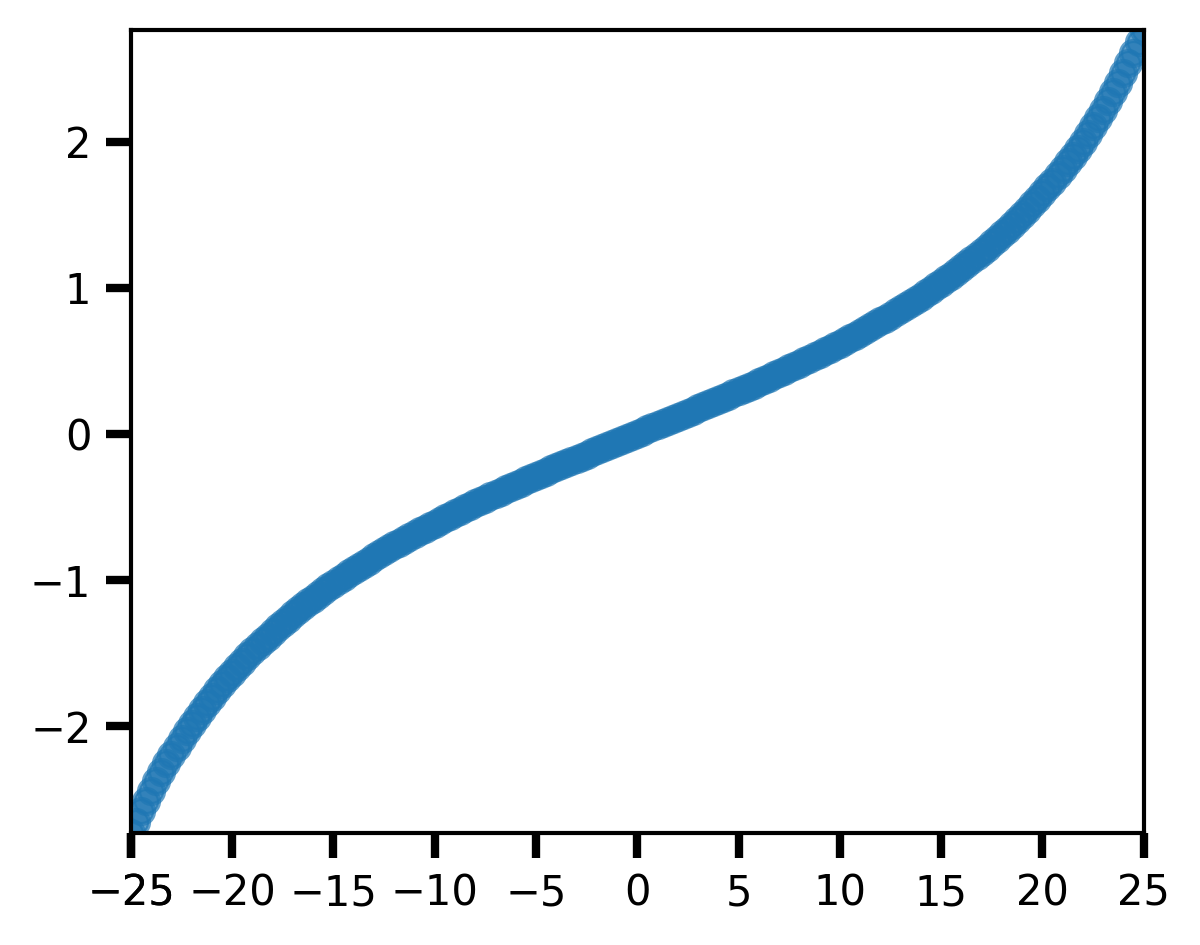
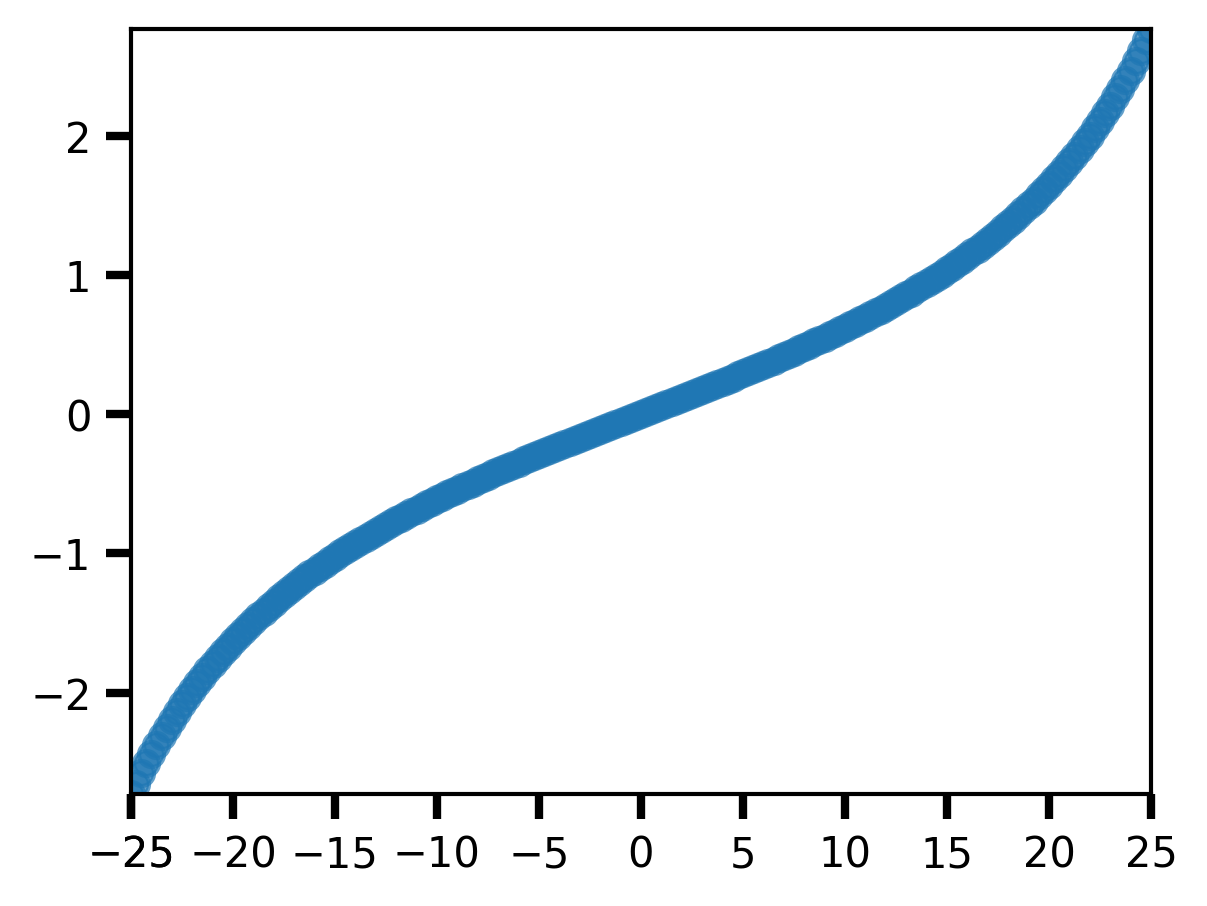
disabled tight layout for uniform plot sizes

diff --git a/E_perp_vs_par_Field_transverse_disp.py b/E_perp_vs_par_Field_transverse_disp.py
@@ -97,6 +97,7 @@ def main():
     fig_height = inner_height + bottom_margin + top_margin
 
     fig, ax = plt.subplots(figsize=(fig_width, fig_height), constrained_layout=False)
+    fig.set_tight_layout(False)
 
     # --- Adjust axes box ---
     fig.subplots_adjust(
@@ -124,7 +125,7 @@ def main():
     for spine in ax.spines.values():
         spine.set_linewidth(1)
         spine.set_color('black')
-    plt.tight_layout()  # Adjust spacing
+        
     plt.savefig("manuscript_delEx_by_delEz_trnsv.png", dpi=300, bbox_inches='tight')
     plt.show()  # Still view in GUI
 

diff --git a/E_perp_vs_par_Field.py b/E_perp_vs_par_Field.py
@@ -146,6 +146,9 @@ def main():
 
     fig, ax = plt.subplots(figsize=(fig_width, fig_height), constrained_layout=False)
 
+    #clearfig, ax = plt.subplots(constrained_layout=False)
+    fig.set_tight_layout(False)
+
     # --- Adjust axes box ---
     fig.subplots_adjust(
         left=left_margin/fig_width,
@@ -173,7 +176,7 @@ def main():
         spine.set_linewidth(1)
         spine.set_color('black')
 
-    plt.tight_layout()  # Adjust spacing
+
     plt.savefig("manuscript_delEz_by_delEx_long.png", dpi=300, bbox_inches='tight')
     plt.show()  # Still view in GUI
 
